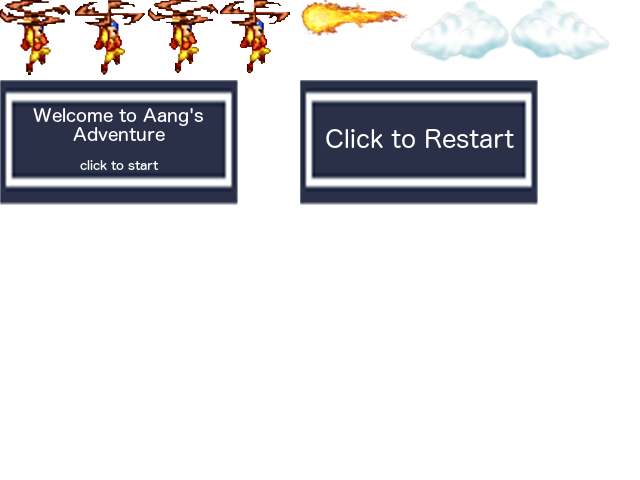
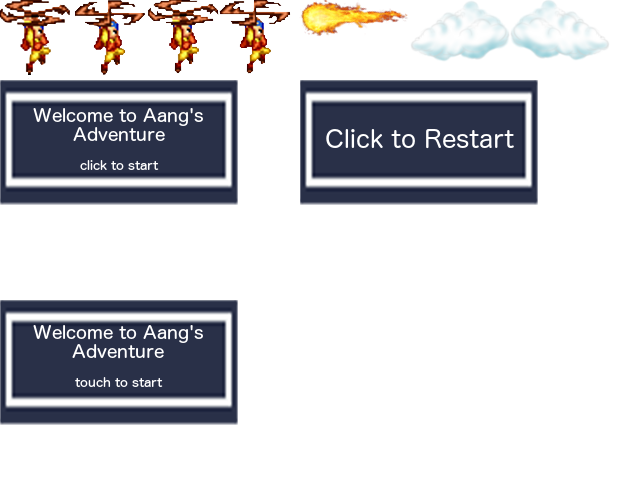
final commit

Changed region(s): [[0.0, 0.625, 0.375, 0.9062]]

diff --git a/js/gameLogic.js b/js/gameLogic.js
@@ -64,7 +64,7 @@ function Aang() {
         this.y += this.velocity;
 
         // Change to the score state when fish touches the ground
-        if (this.y >= height - aangSprite[0].height + 55) {
+        if (this.y >= height) {
 
             if (currentState === states.Game) {
                 currentState = states.Score;
@@ -161,8 +161,8 @@ function FireCollection() {
 }
 
 function Cloud() {
-    this.x = 430;
-    this.y =  (cloudSprite.height + 430)  * Math.random();
+    this.x = width;
+    this.y =  (height)  * Math.random();
     this.width = cloudSprite.width;
     this.height = cloudSprite.height;
     
@@ -227,19 +227,26 @@ function windowSetup() {
     //retrieve the width and height of the window
     width = window.innerWidth;
     height = window.innerHeight;
+    console.log(width);
 
     //set the width and height if we are on a display with a width of > 500px or greater
-    if (width >= 500) {
-        width = 430;
-        height = 430;
+
+    if (width >= 1000) {
+        width = 800;
+        height = 800;
         inputEvent = 'mousedown';
     }
 
+    else if (width >= 700) {
+        width = 650;
+        height = 650;
+        inputEvent = 'mousedown';
+    }
 
-    if (width <= 500) {
+    else if (width <= 500) {
         width = 430;
         height = 430;
-        inputEvent = "mousedown";
+        inputEvent = "touchstart";
     }
 
 
@@ -313,14 +320,20 @@ function loadGraphics() {
             height: startMenuSprite.height
         };
 
+        startMenuBox2 = {
+            x: (width - startMenuSprite2.width)/ 2,
+            y: (height - startMenuSprite2.height)/2,
+            width: startMenuSprite2.width,
+            height: startMenuSprite2.height
+        };
         gameLoop();
 
     };
 }
 
 function Fireball() {
-    this.x = 430;
-    this.y =  (fireballSprite.height + 390)  * Math.random();
+    this.x = width;
+    this.y =  (height)  * Math.random();
     this.width = fireballSprite.width;
     this.height = fireballSprite.height;
 
@@ -375,13 +388,22 @@ function render() {
     fireballs.draw(renderingContext);
     aang.draw(renderingContext);
 
-    if (currentState === states.Score) {
-        okButtonSprite.draw(renderingContext, okButton.x, okButton.y);
+    if (currentState === states.Hovering) {
+        console.log(width);
+        if (width <= 500) {
+            startMenuSprite2.draw(renderingContext, startMenuBox.x, startMenuBox.y);
+        }
+        else {
+            startMenuSprite.draw(renderingContext, startMenuBox.x, startMenuBox.y);
+        }
+
     }
 
-    if (currentState === states.Hovering) {
-        startMenuSprite.draw(renderingContext, startMenuBox.x, startMenuBox.y);
+    if (currentState === states.Score) {
+            okButtonSprite.draw(renderingContext, okButton.x, okButton.y);
     }
+
+
 
 }
 

diff --git a/html/index.html b/html/index.html
@@ -6,6 +6,7 @@
     <script src="../js/gameGraphics.js"></script>
     <script src="../js/gameLogic.js"></script>
     <link href="../css/stylesheet.css" rel="stylesheet">
+    <script src="https://ajax.googleapis.com/ajax/libs/jquery/2.2.2/jquery.min.js"></script>
 </head>
 <body onload="checkScore();">
 <div id="game">
@@ -27,9 +28,9 @@
         </div>
     </div>
     <div id="gameArea">
-        <div id="theGame"></div>
         <div id="highSoreDiv"><h2>High Score: <span id="highScore">0</span></h2></div>
         <div id="scoreDiv"><h2>Player Score: <span id="currentScore">0</span></h2></div>
+        <div id="theGame"></div>
     </div>
 </div>
 </body>

diff --git a/css/stylesheet.css b/css/stylesheet.css
@@ -1,3 +1,23 @@
+@media (min-width: 1000px) {
+    #theGame {
+        height: 800px !important;
+        width: 800px !important;
+    }
+}
+
+@media (min-width: 700px) and (max-width: 999px) {
+    #theGame {
+        height: 650px !important;
+        width: 650px !important;
+    }
+}
+
+@media (max-width: 500px) {
+    #theGame {
+        height: 430px !important;
+        width: 430px !important;
+    }
+}
 body {
     background: url("../images/backgroundImages/AangBackground.jpg") no-repeat center center fixed;
     background-size: cover;

diff --git a/js/gameGraphics.js b/js/gameGraphics.js
@@ -22,6 +22,7 @@ function Sprite(img, x, y, width, height) {
         backgroundSprite.color = "#88e4FD";
         cloudSprite = new Sprite(img, 410, 0, 100, 61 );
         okButtonSprite = new Sprite(img, 300, 80, 238, 125);
+        startMenuSprite2 = new Sprite(img, 0, 300, 238, 125 );
         startMenuSprite = new Sprite(img,0, 80, 238, 125);
         
 }
